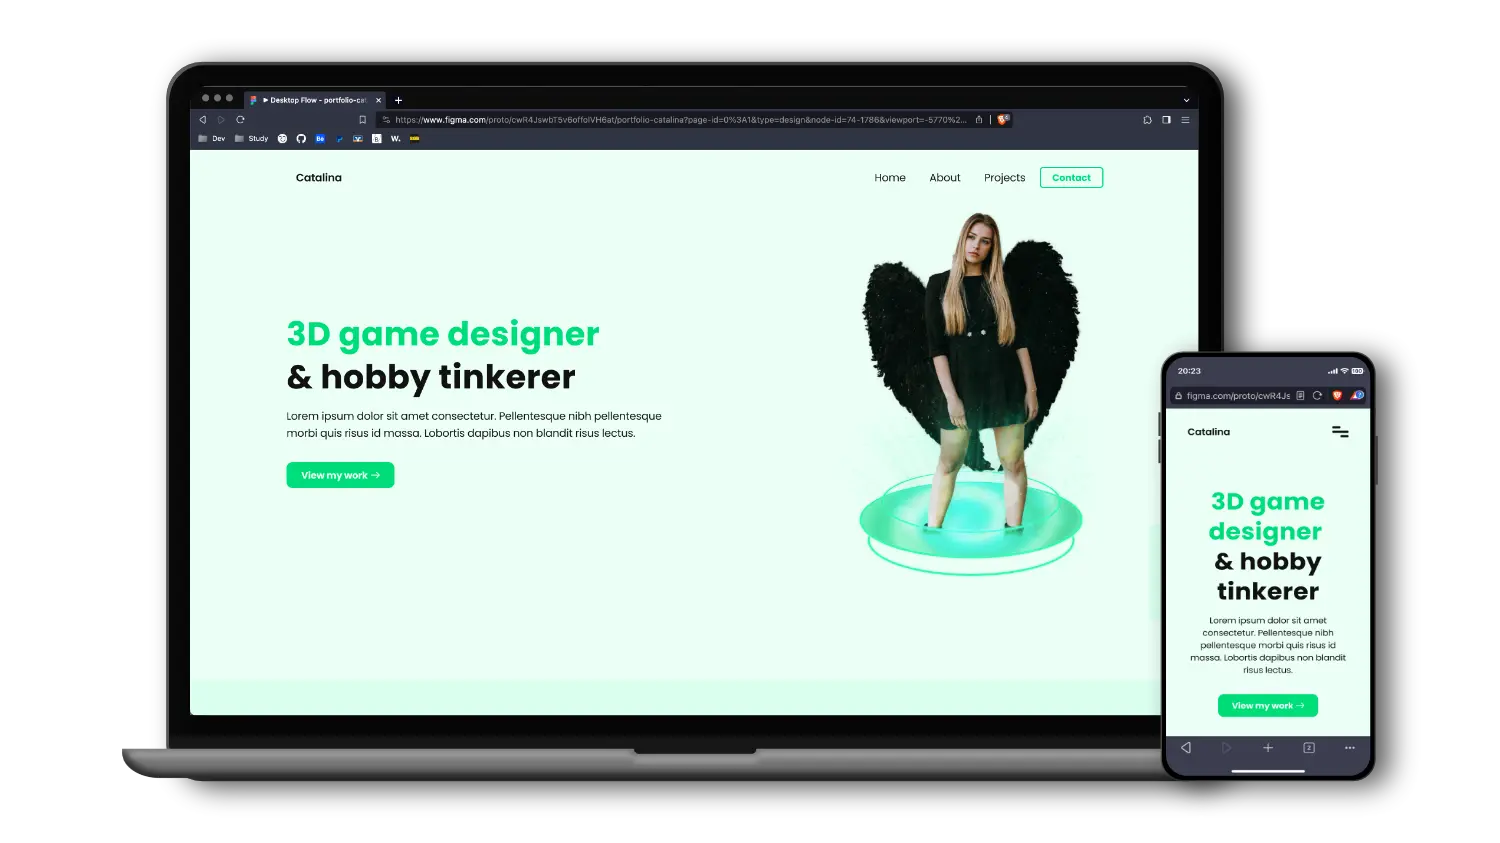
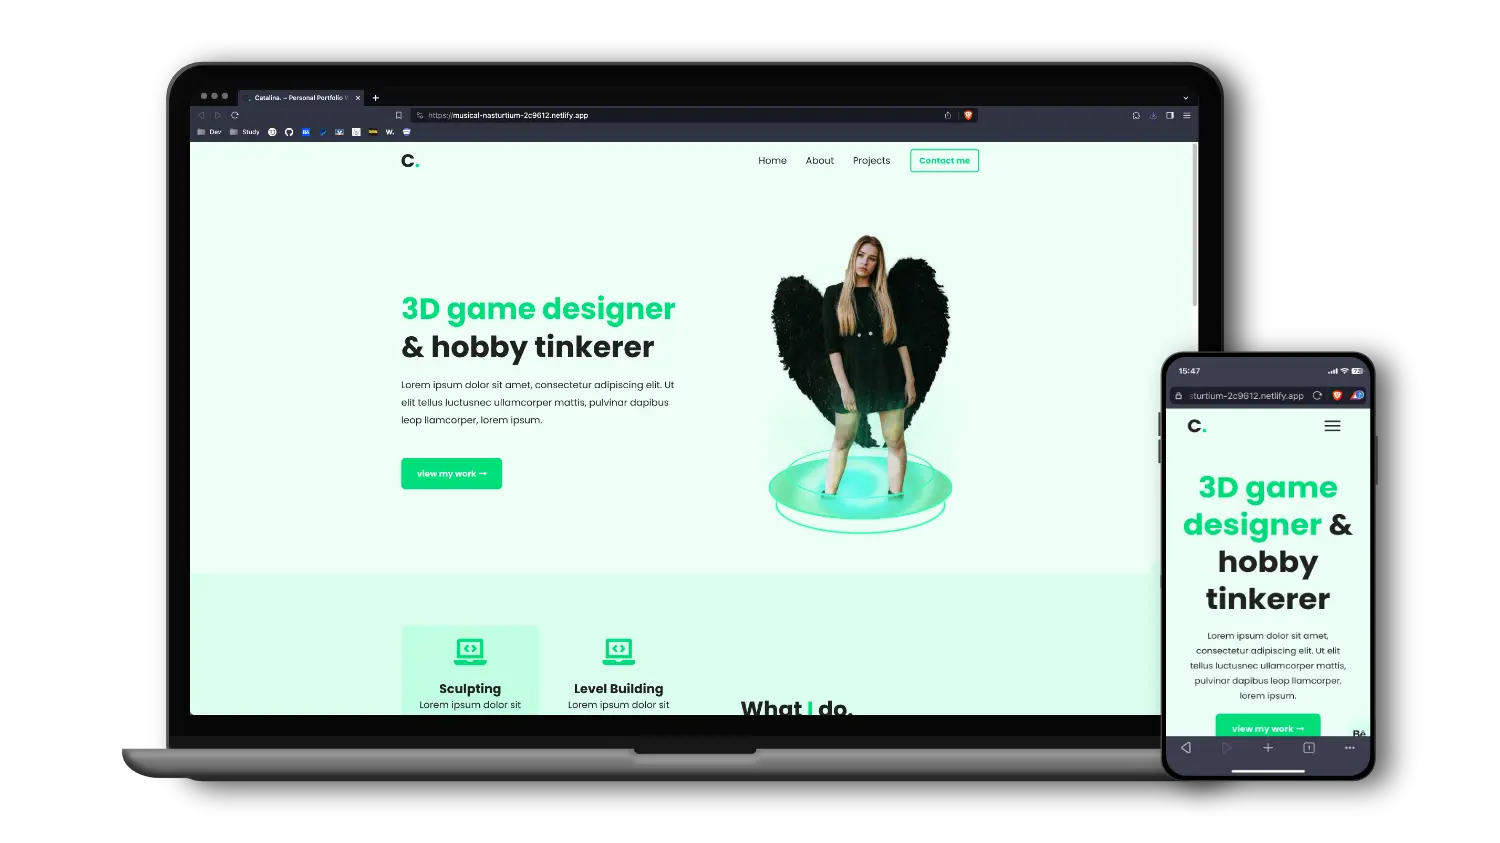
updated project data, fixed stylings

diff --git a/src/components/layout/TheMobileNav.vue b/src/components/layout/TheMobileNav.vue
@@ -1,40 +1,70 @@
 <template>
 	<nav
-		class="w-full py-4 fixed bottom-0 left-0 z-50 flex items-center justify-between block lg:hidden transition-colors duration-300"
+		class="w-full py-4 px-6 fixed bottom-0 left-0 z-50 flex items-center justify-center block lg:hidden transition-colors duration-300 border-t gap-8"
 		:class="{
 			'bg-light': !isDarkMode,
 			'bg-dark': isDarkMode,
 			'text-light': isDarkMode,
 			'text-dark': !isDarkMode,
+			'border-dark': !isDarkMode,
+			'border-light': isDarkMode,
 		}"
 	>
 		<ul
-			class="w-full flex justify-center items-center text-base md:text-lg"
+			class="flex justify-center items-center text-base md:text-lg gap-6"
 		>
-			<li class="w-1/3 text-center">
+			<li class="text-center">
 				<router-link to="/"
 					><i class="fa-solid fa-house mr-2"></i>Home</router-link
 				>
 			</li>
-			<li class="w-1/3 text-center">
+			<li class="text-center">
 				<router-link to="/profile"
 					><i class="fa-solid fa-user mr-2"></i>Profile</router-link
 				>
 			</li>
-			<li class="w-1/3 text-center">
+			<li class="text-center">
 				<router-link :to="{ path: '/', hash: '#projects' }"
 					><i class="fa-solid fa-file-code mr-2"></i>Projects</router-link
 				>
 			</li>
 		</ul>
+
+		<div class="cursor-pointer w-6 text-center" @click="toggleDarkMode">
+			<transition name="toggle-mode" mode="out-in">
+				<i v-if="!isDarkMode" class="fa-solid fa-moon fa-lg"></i>
+				<i v-else class="fa-solid fa-sun fa-lg"></i>
+			</transition>
+		</div>
 	</nav>
 </template>
+
+<style scoped>
+	.toggle-mode-enter-from,
+	.toggle-mode-leave-to {
+		transform: translateY(10px);
+		opacity: 0;
+	}
+
+	.toggle-mode-enter-active,
+	.toggle-mode-leave-active {
+		transition: all 0.25s ease;
+	}
+
+	.toggle-mode-enter-to,
+	.toggle-mode-leave-from {
+		transform: translateY(0);
+		opacity: 1;
+	}
+</style>
 
 <script setup>
 	import { useStore } from "vuex";
 	import { computed } from "vue";
 
 	const store = useStore();
+
+	const toggleDarkMode = () => store.dispatch("setMode");
 
 	const isDarkMode = computed(() => store.getters.getMode);
 </script>

diff --git a/src/store/modules/projects/index.js b/src/store/modules/projects/index.js
@@ -32,8 +32,8 @@ export default {
 					image: PortfolioCat,
 					altText: "Portfolio Catalina Mockup",
 					title: "3D Game designer portfolio",
-					linkType: "behance",
-					link: "https://www.behance.net/gallery/183933925/3D-Designer-Portfolio-Website",
+					linkType: "web",
+					link: "https://musical-nasturtium-2c9612.netlify.app/",
 					shortDescr: "Portfolio website redesign of a 3D game designer.",
 					description:
 						"Catalina is a 3D game designer. On the side, she is also crafting parts for cosplays and other fan items from games and series. Her current portfolio site is difficult to navigate, and it's quite hard to find the information you need (content all over the place, long walls of text, not very consistent overall, etc.). Even though her work is good, the site itself makes it very hard to stay focused. (all images are placeholders)",

diff --git a/src/components/layout/TheHeader.vue b/src/components/layout/TheHeader.vue
@@ -1,6 +1,7 @@
 <template>
 	<header
-		class="w-full flex items-center justify-between py-8 fixed top-0 left-1/2 -translate-x-1/2 max-w-[650px] px-10 z-50 transition-colors duration-300"
+		id="mainNav"
+		class="w-full flex items-center justify-between py-8 lg:fixed lg:top-0 lg:left-1/2 lg:-translate-x-1/2 max-w-[650px] lg:px-10 z-50 transition-colors duration-300"
 		:class="{
 			'bg-light': !isDarkMode,
 			'bg-dark': isDarkMode,
@@ -34,7 +35,10 @@
 				</ul>
 			</nav>
 
-			<div class="cursor-pointer w-6 text-center" @click="toggleDarkMode">
+			<div
+				class="cursor-pointer w-6 text-center hidden lg:block"
+				@click="toggleDarkMode"
+			>
 				<transition name="toggle-mode" mode="out-in">
 					<i v-if="!isDarkMode" class="fa-solid fa-moon fa-lg"></i>
 					<i v-else class="fa-solid fa-sun fa-lg"></i>

diff --git a/src/components/project/Project.vue b/src/components/project/Project.vue
@@ -1,6 +1,6 @@
 <template>
 	<div>
-		<section class="py-32 md:py-36">
+		<section class="py-6 lg:py-32">
 			<div class="w-full mb-12">
 				<img
 					:src="currentProject.image"
@@ -12,7 +12,7 @@
 
 			<div class="flex flex-col gap-16">
 				<div>
-					<h2 class="font-bold text-4xl mb-10">
+					<h2 class="font-bold text-3xl md:text-4xl mb-10">
 						{{ currentProject.title }}
 					</h2>
 					<a :href="currentProject.link" target="_blank" class="text-xl">

diff --git a/src/components/landing/Projects.vue b/src/components/landing/Projects.vue
@@ -1,6 +1,8 @@
 <template>
 	<section class="py-12" id="projects">
-		<h2 class="font-bold text-4xl mb-10">My recent projects</h2>
+		<h2 class="font-bold text-3xl md:text-4xl mb-10">
+			My recent projects
+		</h2>
 		<div class="flex flex-col gap-16">
 			<project-item
 				v-for="p in projects"

diff --git a/src/components/landing/AboveFolds.vue b/src/components/landing/AboveFolds.vue
@@ -1,6 +1,6 @@
 <template>
 	<section class="w-full">
-		<figure class="py-32 md:py-52 flex flex-col gap-12">
+		<figure class="py-14 md:py-24 lg:py-48 flex flex-col gap-12">
 			<div>
 				<h1
 					class="text-4xl md:text-5xl leading-[1.15] md:leading-[1.15] font-bold mb-4"

diff --git a/src/components/profile/Profile.vue b/src/components/profile/Profile.vue
@@ -1,6 +1,6 @@
 <template>
 	<div>
-		<section class="py-32 md:py-36 flex flex-col gap-16">
+		<section class="py-6 lg:py-32 flex flex-col gap-16">
 			<div>
 				<h2 class="font-bold text-4xl mb-10">Profile</h2>
 				<p class="text-base md:text-lg">
